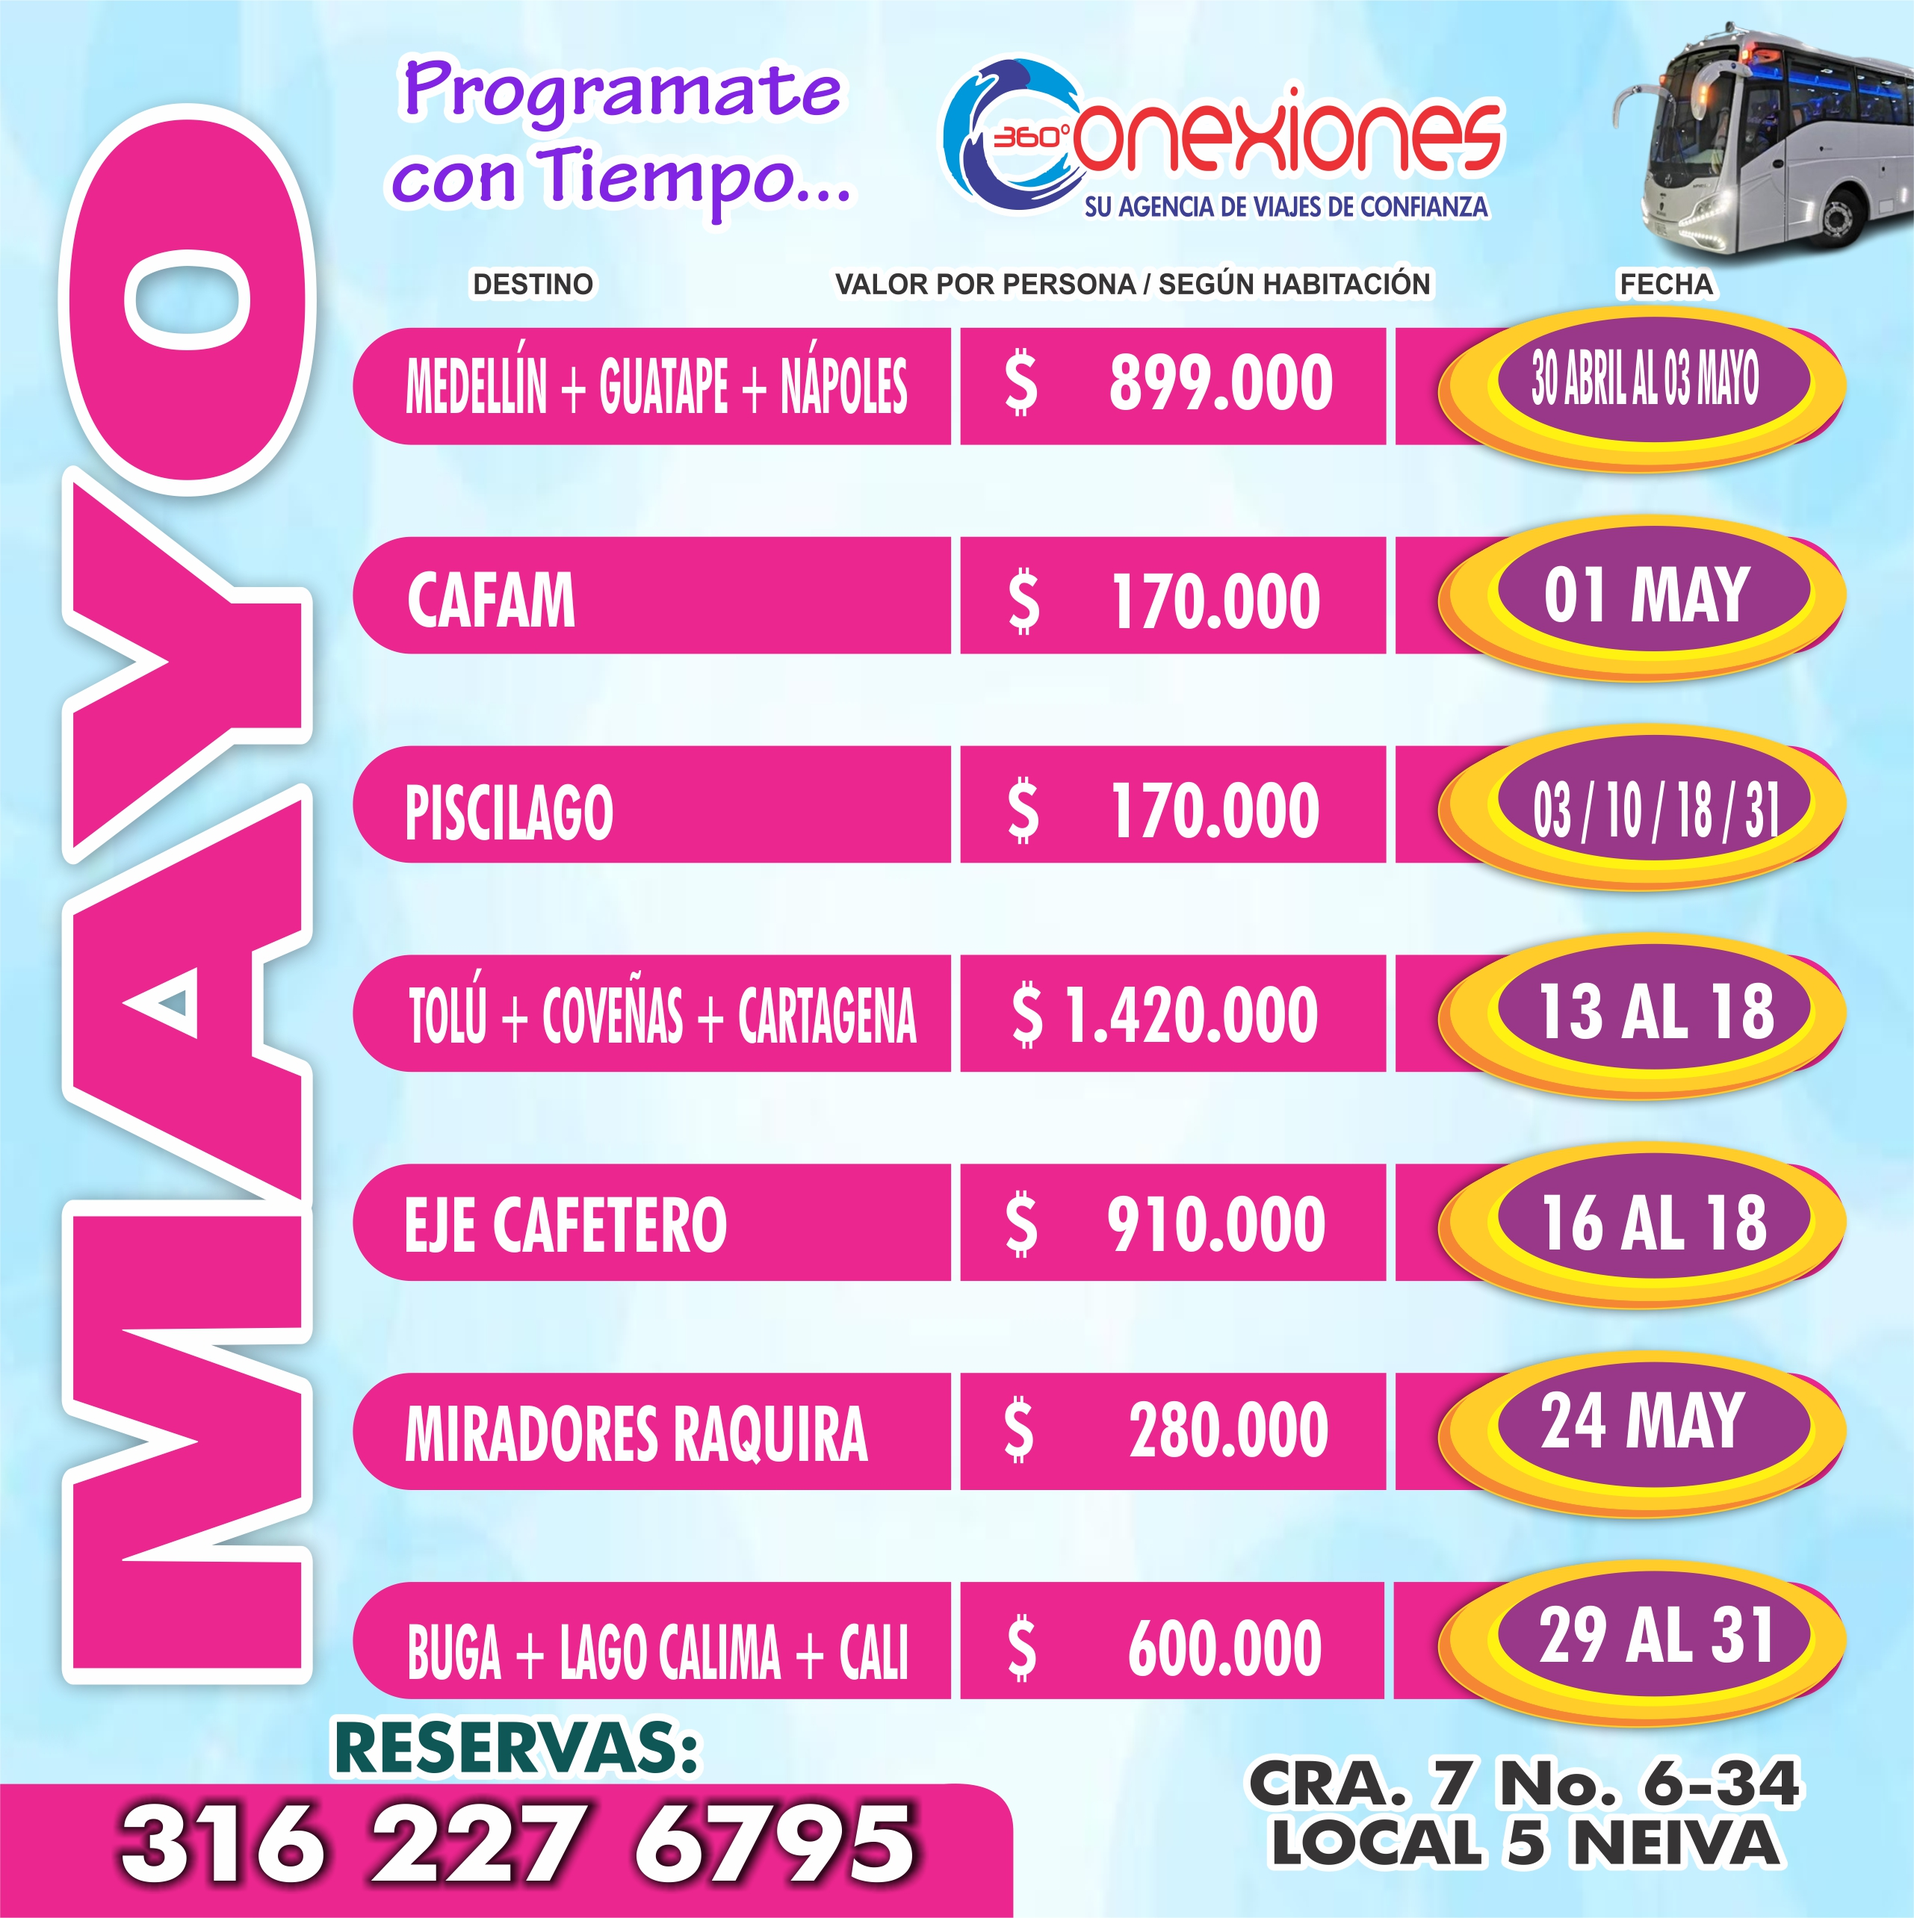
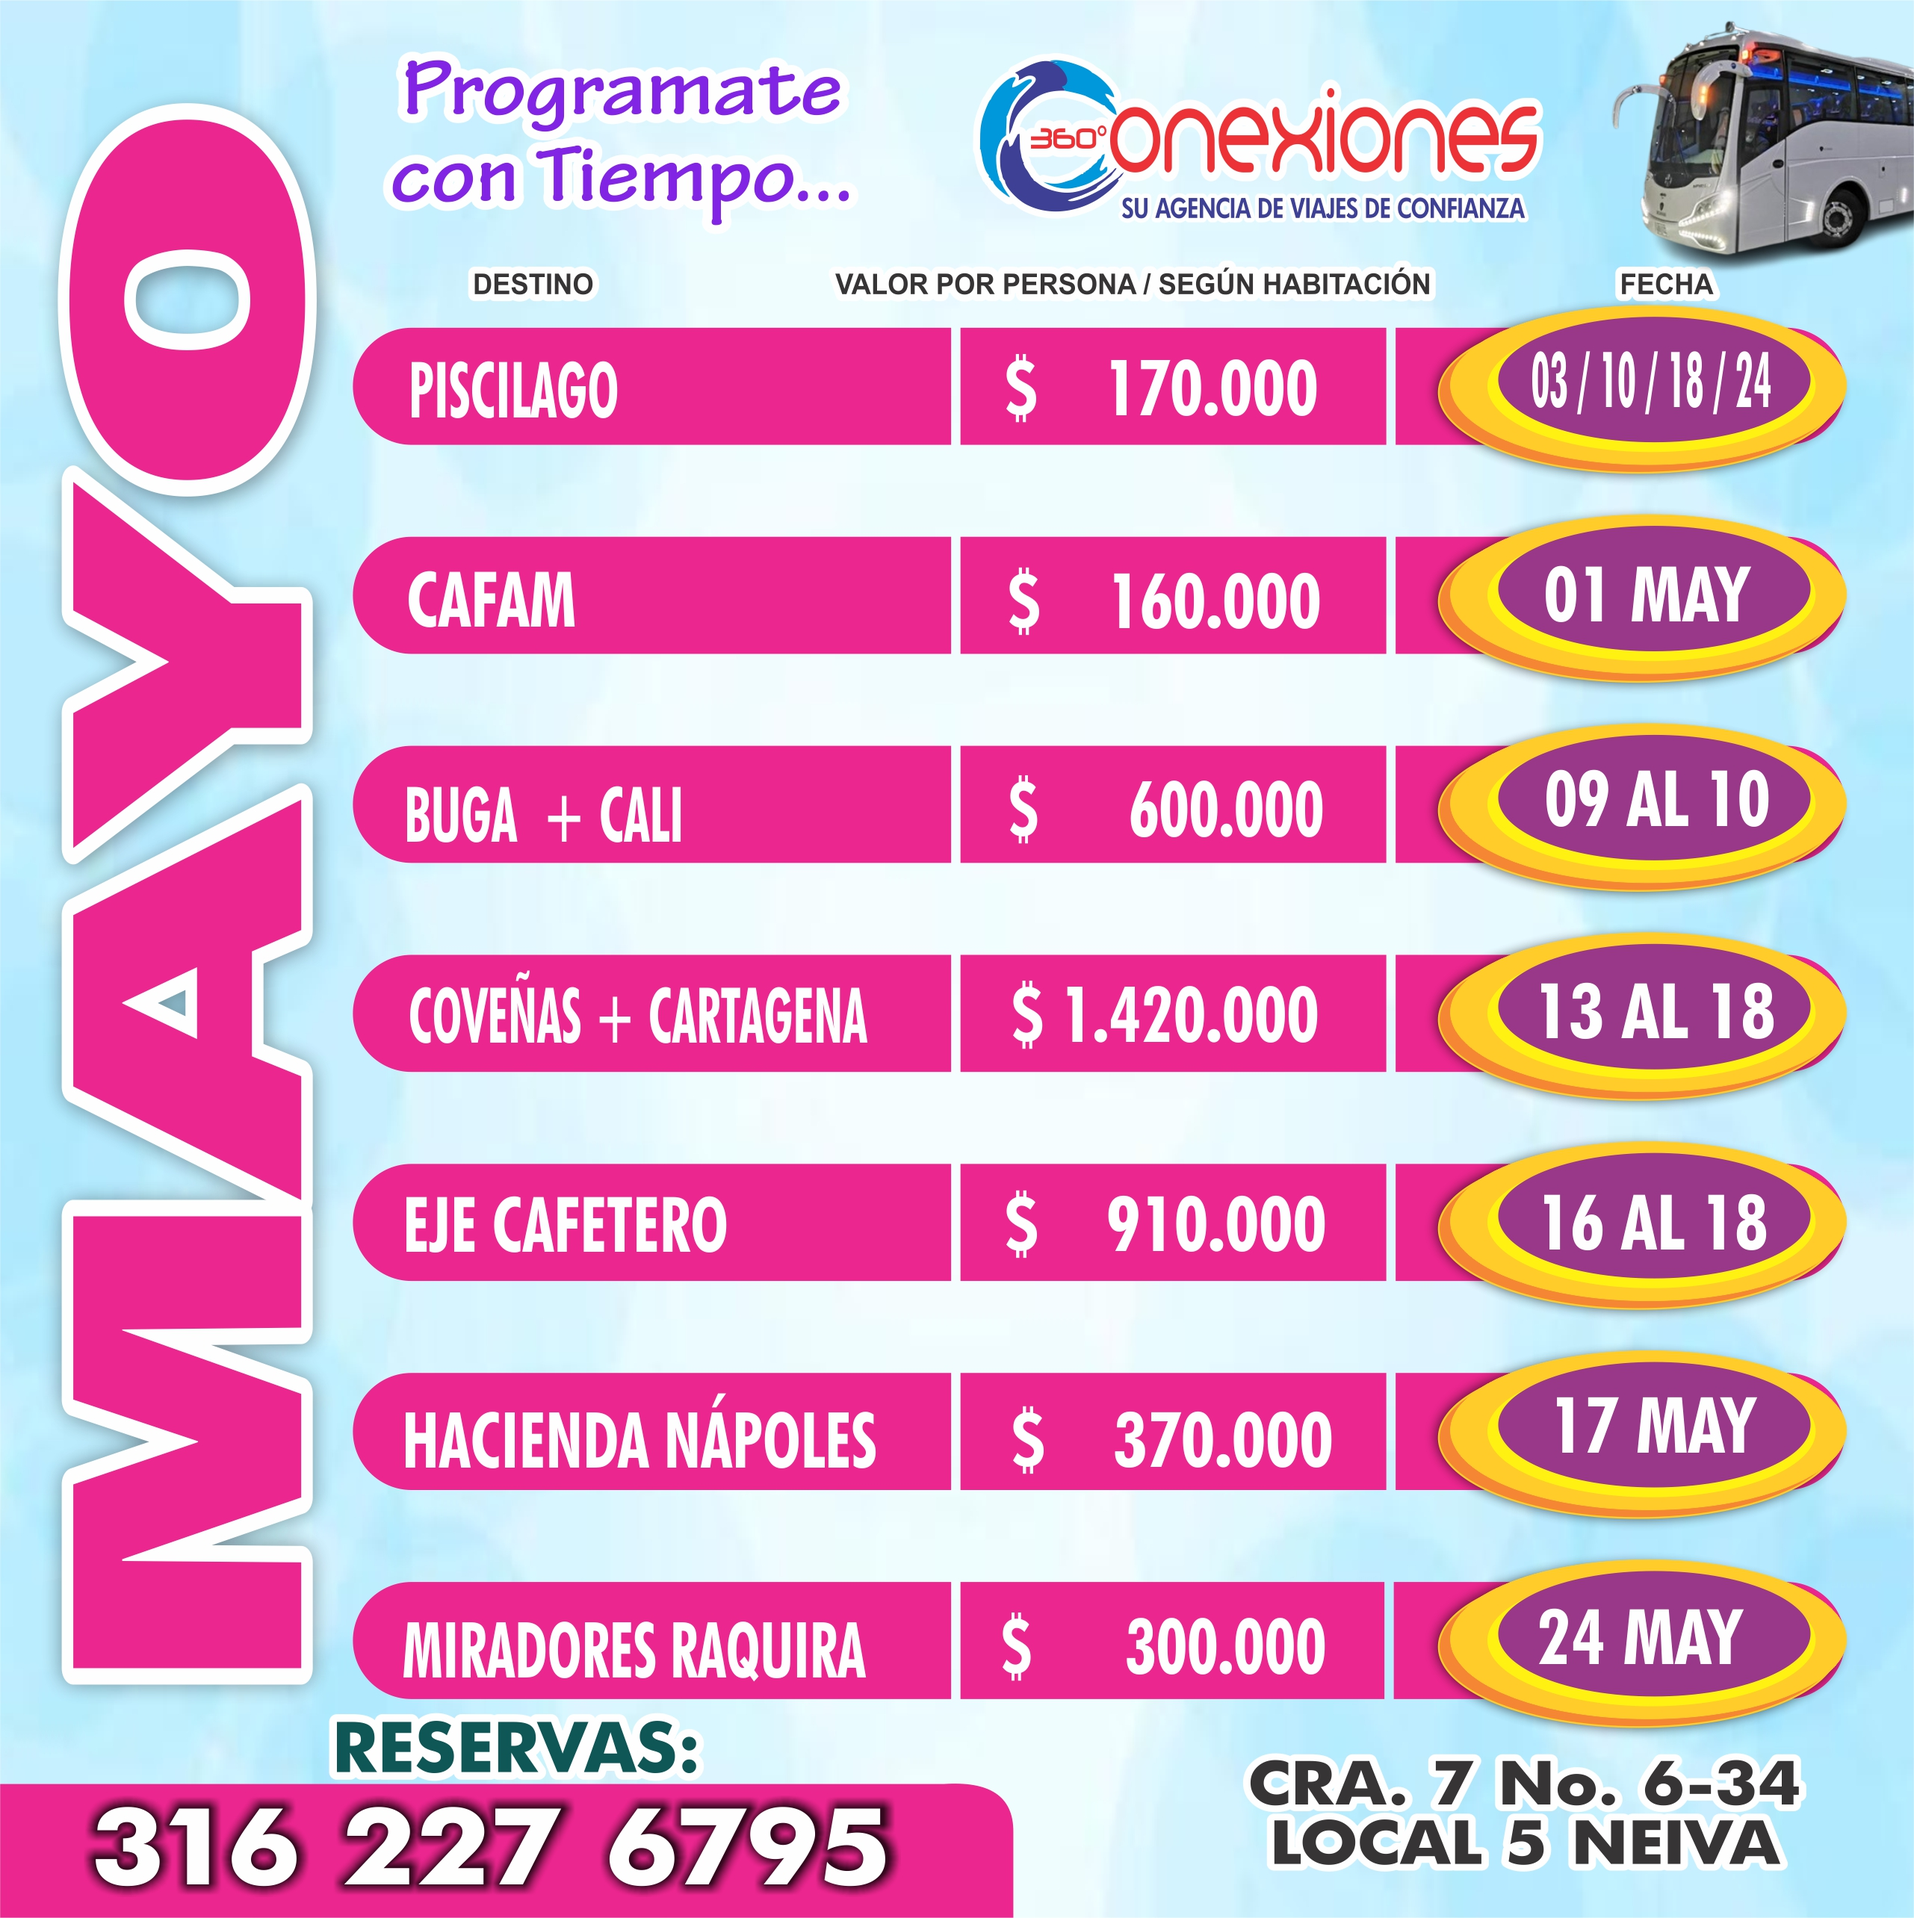
correccion mayo

diff --git a/src/data/flyers/flyers.ts b/src/data/flyers/flyers.ts
@@ -446,10 +446,21 @@ export const flyers: FlyerPlan[] = [
     tipo: "terrestre",
     titulo: "Cafam Melgar",
     fechas: ["Mayo 1"],
-    precio: 170000,
+    precio: 160000,
     imagen: "/Mayo2026/cafam.jpg",
     whatsappBase:
       "Hola Conexiones360, quiero información del plan Cafam",
+  },
+                {
+    id: "bugacali-mayo",
+    mes: "mayo",
+    tipo: "terrestre",
+    titulo: "Buga, Cali y Lago Calima",
+    fechas: ["Mayo 9 al 10"],
+    precio: 600000,
+    imagen: "/Mayo2026/caliylago.jpg",
+    whatsappBase:
+      "Hola Conexiones360, quiero información del plan Buga, Cali y Lago Calima",
   },
             {
     id: "piscilago-mayo",
@@ -460,7 +471,7 @@ export const flyers: FlyerPlan[] = [
       "Mayo 3",
       "Mayo 10",
       "Mayo 18",
-      "Mayo 31",
+      "Mayo 24",
     ],
     precio: 170000,
     imagen: "/Mayo2026/piscilago.jpg",
@@ -489,6 +500,17 @@ export const flyers: FlyerPlan[] = [
     whatsappBase:
       "Hola Conexiones360, quiero información del plan Eje Cafetero",
   },
+                {
+    id: "haciendanapoles-mayo",
+    mes: "mayo",
+    tipo: "terrestre",
+    titulo: "Hacienda Nápoles",
+    fechas: ["Mayo 17"],
+    precio: 370000,
+    imagen: "/Mayo2026/napoles.jpg",
+    whatsappBase:
+      "Hola Conexiones360, quiero información del plan Hacienda Nápoles",
+  },
               {
     id: "miradoresraquira-mayo",
     mes: "mayo",
@@ -499,17 +521,6 @@ export const flyers: FlyerPlan[] = [
     imagen: "/Mayo2026/raquira.jpg",
     whatsappBase:
       "Hola Conexiones360, quiero información del plan Miradores de Raquira",
-  },
-              {
-    id: "bugacali-mayo",
-    mes: "mayo",
-    tipo: "terrestre",
-    titulo: "Buga, Cali y Lago Calima",
-    fechas: ["Mayo 29 al 31"],
-    precio: 600000,
-    imagen: "/Mayo2026/caliylago.jpg",
-    whatsappBase:
-      "Hola Conexiones360, quiero información del plan Buga, Cali y Lago Calima",
   },
 
 // JUNIO
